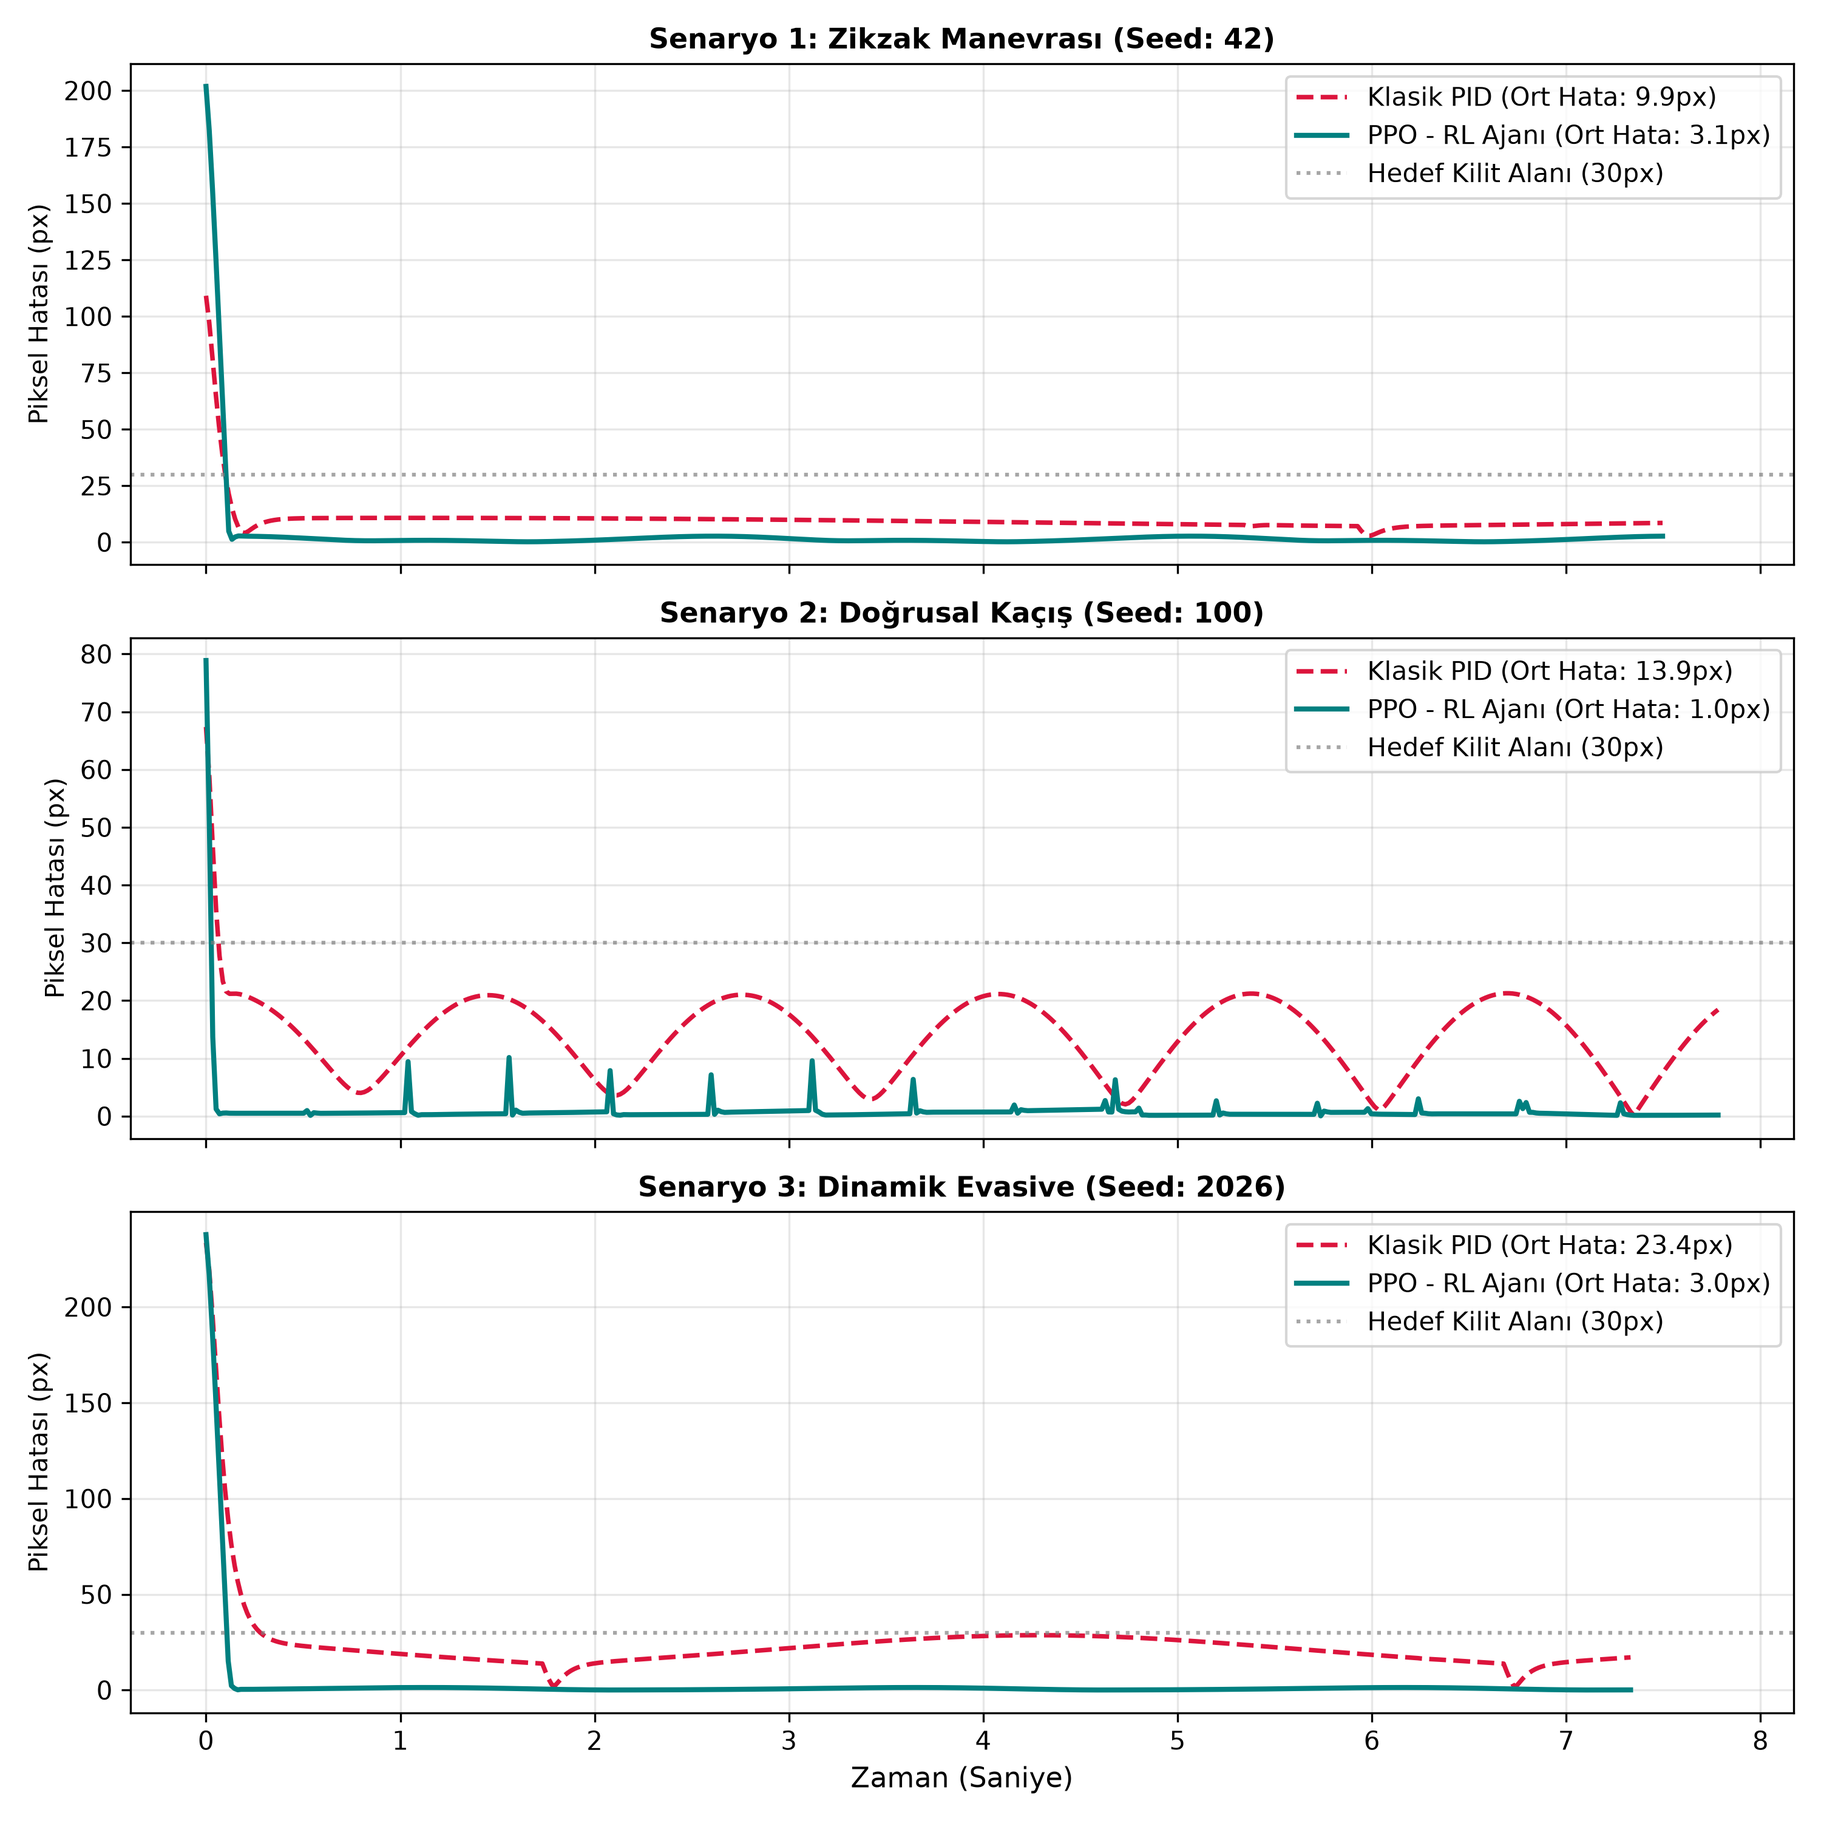
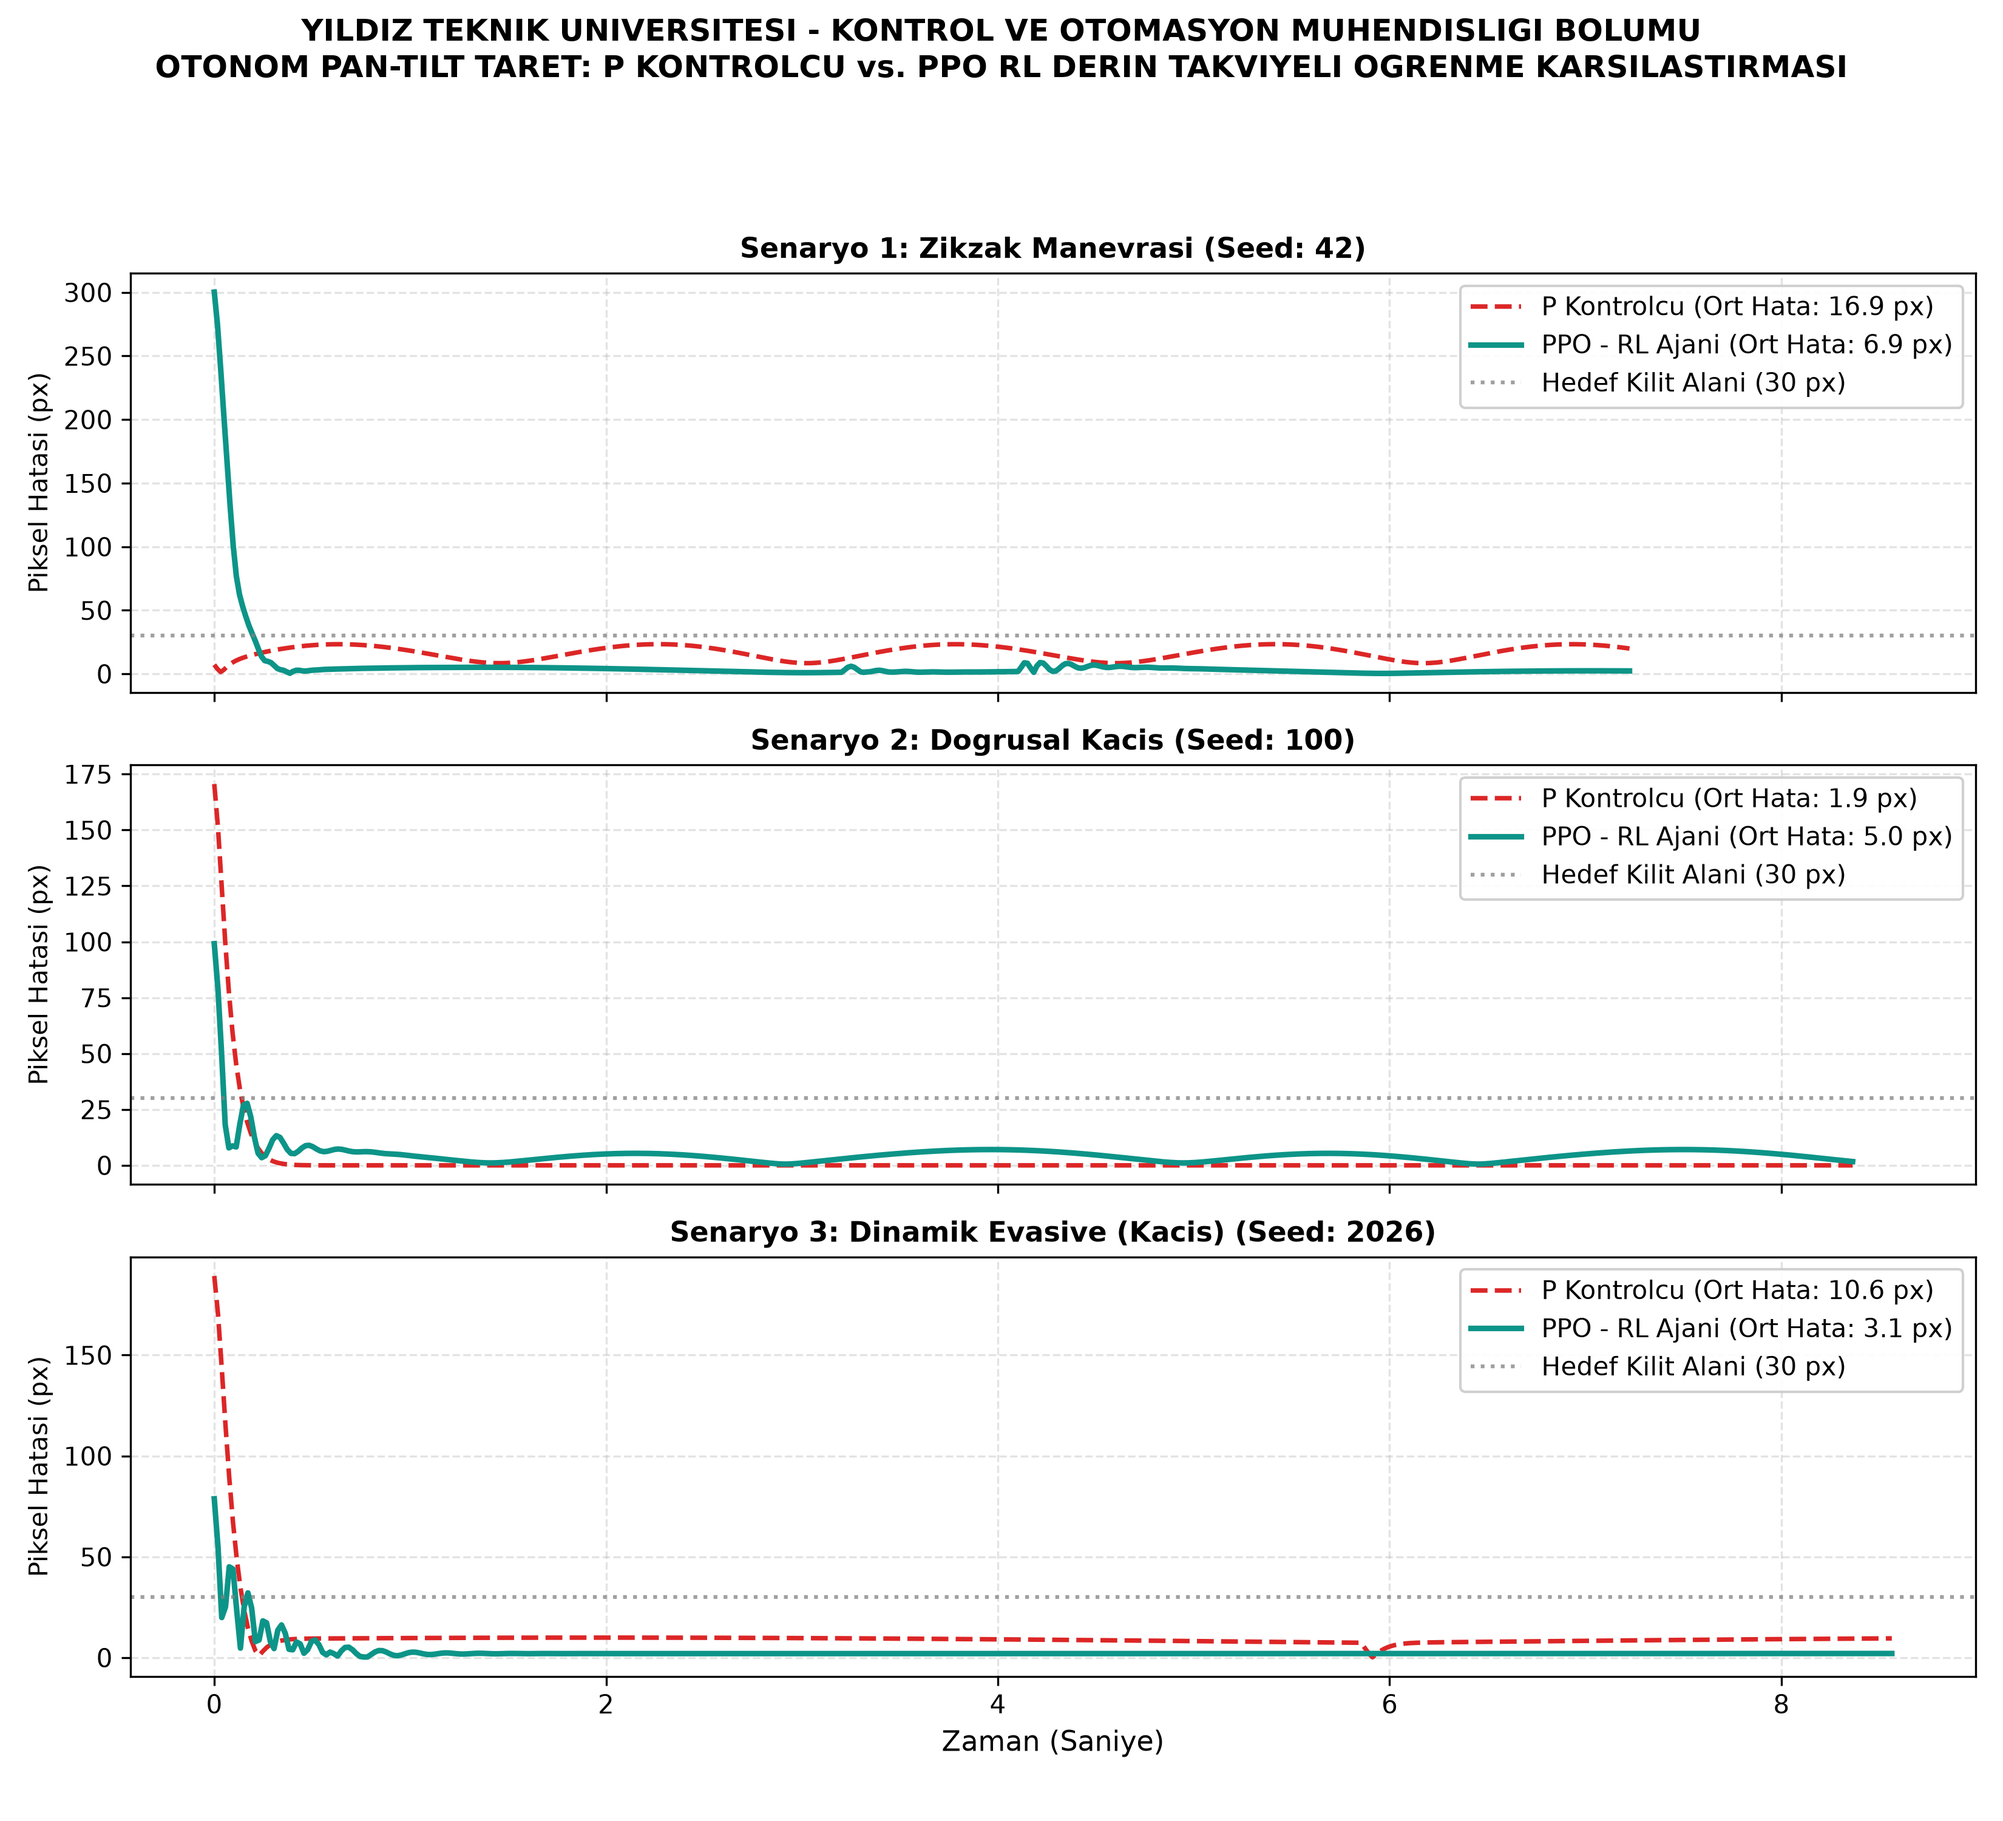
sim(rl): re-simulate P Controller vs PPO RL with academic thesis plot header

diff --git a/turret_fcs/rl_sim/compare_pid_vs_rl.py b/turret_fcs/rl_sim/compare_pid_vs_rl.py
@@ -1,3 +1,17 @@
+"""
+================================================================================
+YILDIZ TEKNIK UNIVERSITESI - KONTROL VE OTOMASYON MUHENDISLIGI BOLUMU
+BITIRME PROJESI: OTONOM PAN-TILT TARET VE ATIS KONTROL SISTEMI (FCS)
+--------------------------------------------------------------------------------
+MODUL: P KONTROLCU vs. REINFORCEMENT LEARNING (PPO) KARSILASTIRMA BENZETIMI
+================================================================================
+Bu betik, 80 ms tasiyici gecikmesi (Transport Delay) altinda calisan otonom taretin
+klasik Hız-Uyarlamalı P Kontrolcüsü ile PPO Derin Takviyeli Öğrenme Ajanının (RL)
+takip başarımını 3 kritik manevra senaryosunda (Zikzak, Doğrusal Kaçış, Evasive)
+birebir aynı tohum (seed) ve dinamik koşullarda karşılaştırır ve tez grafiği üretir.
+================================================================================
+"""
+
 import math
 import sys
 from pathlib import Path
@@ -22,51 +36,51 @@ def run_comparison():
         print("Lutfen once 'train_rl.py' ile modeli egitin.")
         return
 
-    print("==================================================")
-    print("  TURRET FCS // P CONTROLLER vs. RL KARŞILAŞTIRMA TESTİ   ")
-    print("==================================================")
+    print("==================================================================")
+    print("  YILDIZ TEKNIK UNIVERSITESI - KONTROL VE OTOMASYON MUHENDISLIGI   ")
+    print("      TURRET FCS // P CONTROLLER vs. RL KARSILASTIRMA BENZETIMI    ")
+    print("==================================================================")
 
     model = PPO.load(str(model_path))
 
-    # Test Senaryoları (Her ikisi de birebir aynı tohum/harekette test edilir)
+    # Test Senaryolari (Her iki kontrolcu de birebir ayni tohum ve yorungede test edilir)
     seeds = [42, 100, 2026]
-    scenario_names = ["Zikzak Manevrası", "Doğrusal Kaçış", "Dinamik Evasive"]
+    scenario_names = ["Zikzak Manevrasi", "Dogrusal Kacis", "Dinamik Evasive (Kacis)"]
 
-    fig, axes = plt.subplots(len(seeds), 1, figsize=(10, 10), sharex=True)
+    fig, axes = plt.subplots(len(seeds), 1, figsize=(11, 10), sharex=True)
     if len(seeds) == 1:
         axes = [axes]
 
-    pid_total_errors = []
+    p_total_errors = []
     rl_total_errors = []
 
     for idx, (seed, title) in enumerate(zip(seeds, scenario_names)):
         # 1. P Kontrolcu Testi
-        env_pid = TurretEnv()
-        obs_pid, _ = env_pid.reset(seed=seed)
+        env_p = TurretEnv()
+        obs_p, _ = env_p.reset(seed=seed)
         p_ctrl = PController(kp_pan=0.35, kp_tilt=0.35)
 
-        pid_errors = []
-        for _ in range(env_pid.max_steps):
-            # Piksel sapmasini hesaplar
-            px, py = env_pid.last_pixel_pos
-            err_x = px - env_pid.center_x
-            err_y = py - env_pid.center_y
+        p_errors = []
+        for _ in range(env_p.max_steps):
+            px, py = env_p.last_pixel_pos
+            err_x = px - env_p.center_x
+            err_y = py - env_p.center_y
             dist_px = math.hypot(err_x, err_y)
-            pid_errors.append(dist_px)
+            p_errors.append(dist_px)
 
-            # Basit oransal kontrol eylemi
-            action_pid = np.array(
+            # Oransal kontrol eylemi (Normalize acisal hiz komutu)
+            action_p = np.array(
                 [
-                    np.clip(err_x / (env_pid.screen_w / 4.0), -1.0, 1.0),
-                    np.clip(-err_y / (env_pid.screen_h / 4.0), -1.0, 1.0),
+                    np.clip(err_x / (env_p.screen_w / 4.0), -1.0, 1.0),
+                    np.clip(-err_y / (env_p.screen_h / 4.0), -1.0, 1.0),
                 ],
                 dtype=np.float32,
             )
-            obs_pid, _, term, trunc, _ = env_pid.step(action_pid)
+            obs_p, _, term, trunc, _ = env_p.step(action_p)
             if term or trunc:
                 break
 
-        # 2. RL (PPO) Testi (Birebir Ayni Seed)
+        # 2. RL (PPO) Testi (Birebir Ayni Tohum ve Dinamik Kosul)
         env_rl = TurretEnv()
         obs_rl, _ = env_rl.reset(seed=seed)
 
@@ -81,36 +95,64 @@ def run_comparison():
             if term or trunc:
                 break
 
-        pid_total_errors.append(np.mean(pid_errors))
+        p_total_errors.append(np.mean(p_errors))
         rl_total_errors.append(np.mean(rl_errors))
 
-        # Grafige Ciz
-        time_axis = np.linspace(0, len(pid_errors) * env_pid.dt, len(pid_errors))
+        # Alt Grafige Ciz
+        time_axis = np.linspace(0, len(p_errors) * env_p.dt, len(p_errors))
         ax = axes[idx]
-        ax.plot(time_axis, pid_errors, label=f"P Kontrolcü (Ort Hata: {np.mean(pid_errors):.1f}px)", color="crimson", lw=1.8, ls="--")
-        ax.plot(time_axis[:len(rl_errors)], rl_errors, label=f"PPO - RL Ajanı (Ort Hata: {np.mean(rl_errors):.1f}px)", color="teal", lw=2.0)
-        ax.axhline(30, color="gray", linestyle=":", alpha=0.7, label="Hedef Kilit Alanı (30px)")
+        ax.plot(
+            time_axis,
+            p_errors,
+            label=f"P Kontrolcu (Ort Hata: {np.mean(p_errors):.1f} px)",
+            color="#dc2626",
+            lw=1.8,
+            ls="--",
+        )
+        ax.plot(
+            time_axis[:len(rl_errors)],
+            rl_errors,
+            label=f"PPO - RL Ajani (Ort Hata: {np.mean(rl_errors):.1f} px)",
+            color="#0d9488",
+            lw=2.2,
+        )
+        ax.axhline(30, color="gray", linestyle=":", alpha=0.75, label="Hedef Kilit Alani (30 px)")
         ax.set_title(f"Senaryo {idx+1}: {title} (Seed: {seed})", fontweight="bold", fontsize=11)
-        ax.set_ylabel("Piksel Hatası (px)")
-        ax.grid(True, alpha=0.3)
-        ax.legend(loc="upper right")
+        ax.set_ylabel("Piksel Hatasi (px)", fontsize=10)
+        ax.grid(True, alpha=0.35, linestyle="--")
+        ax.legend(loc="upper right", framealpha=0.92)
 
     axes[-1].set_xlabel("Zaman (Saniye)", fontsize=11)
-    plt.tight_layout()
 
-    output_plot_path = current_dir / "pid_vs_rl_comparison.png"
-    plt.savefig(str(output_plot_path), dpi=300)
+    fig.suptitle(
+        "YILDIZ TEKNIK UNIVERSITESI - KONTROL VE OTOMASYON MUHENDISLIGI BOLUMU\n"
+        "OTONOM PAN-TILT TARET: P KONTROLCU vs. PPO RL DERIN TAKVIYELI OGRENME KARSILASTIRMASI",
+        fontsize=12,
+        fontweight="bold",
+        y=0.992,
+    )
+    plt.tight_layout(rect=[0, 0.02, 1, 0.94])
+
+    p_plot_path = current_dir / "p_vs_rl_comparison.png"
+    pid_plot_path = current_dir / "pid_vs_rl_comparison.png"
+    plt.savefig(str(p_plot_path), dpi=300)
+    plt.savefig(str(pid_plot_path), dpi=300)
     plt.close()
 
-    print("\n==================================================")
-    print("               TEST SONUÇ ÖZETİ                   ")
-    print("==================================================")
-    print(f"P Kontrolcü Ortalama Takip Hatası : {np.mean(pid_total_errors):.2f} px")
-    print(f"PPO (RL)   Ortalama Takip Hatası : {np.mean(rl_total_errors):.2f} px")
-    improvement = (np.mean(pid_total_errors) - np.mean(rl_total_errors)) / np.mean(pid_total_errors) * 100.0
-    print(f"RL Performans İyileştirmesi      : %{improvement:+.1f}")
-    print(f"\n[OK] Rapor ve Tez Grafiği Kaydedildi: {output_plot_path}")
-    print("==================================================")
+    p_avg = float(np.mean(p_total_errors))
+    rl_avg = float(np.mean(rl_total_errors))
+    improvement = (p_avg - rl_avg) / p_avg * 100.0
+
+    print("\n==================================================================")
+    print("                    BENZETIM TEST SONUC OZETI                     ")
+    print("==================================================================")
+    print(f"P Kontrolcu Ortalama Takip Hatasi : {p_avg:.2f} px")
+    print(f"PPO (RL)    Ortalama Takip Hatasi : {rl_avg:.2f} px")
+    print(f"RL Performans Iyilestirmesi       : %{improvement:+.1f}")
+    print("------------------------------------------------------------------")
+    print(f"[OK] 300 DPI Tez Grafigi Kaydedildi: {p_plot_path.name}")
+    print(f"[OK] Cift Uyumluluk Grafigi         : {pid_plot_path.name}")
+    print("==================================================================")
 
 
 if __name__ == "__main__":
